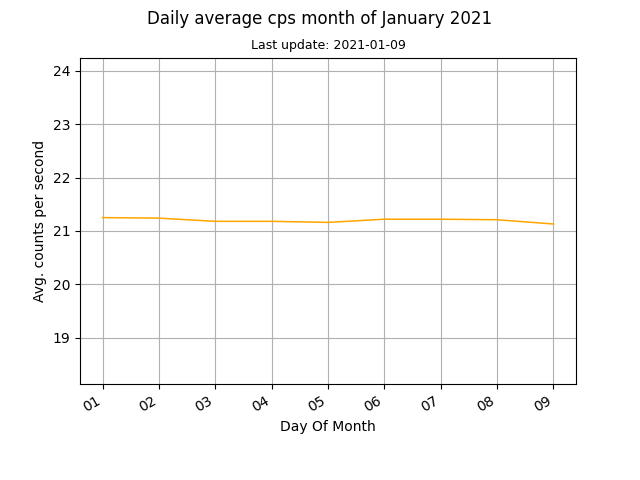
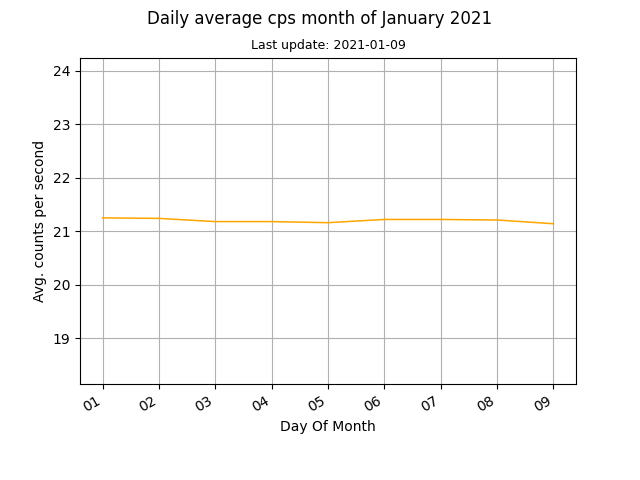
auto data update

Changed region(s): [[0.1562, 0.4375, 0.7812, 0.4688], [0.0938, 0.6875, 0.125, 0.7188], [0.0625, 0.4688, 0.0938, 0.5]]

diff --git a/docs/index.html b/docs/index.html
@@ -45,8 +45,8 @@
 	
 	<br>
 	
-	<p>Current counts per second (cps): 21.08</p>
-	<p>Last update: 2021-01-09, 03:58</p>
+	<p>Current counts per second (cps): 21.3</p>
+	<p>Last update: 2021-01-09, 04:13</p>
 
 	<p><a href="images/monthly.png"><img src="images/monthly.png" alt="Mothly avg cps data"></a><a href="images/daily.png"><img src="images/daily.png" alt="Daily avg cps data"></a></p>
 	
